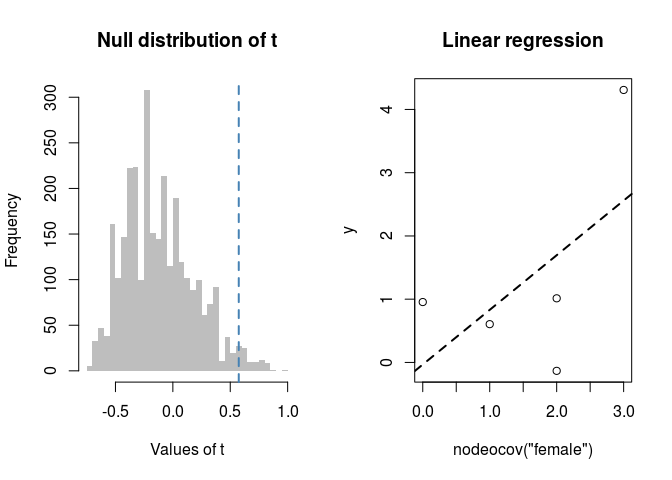
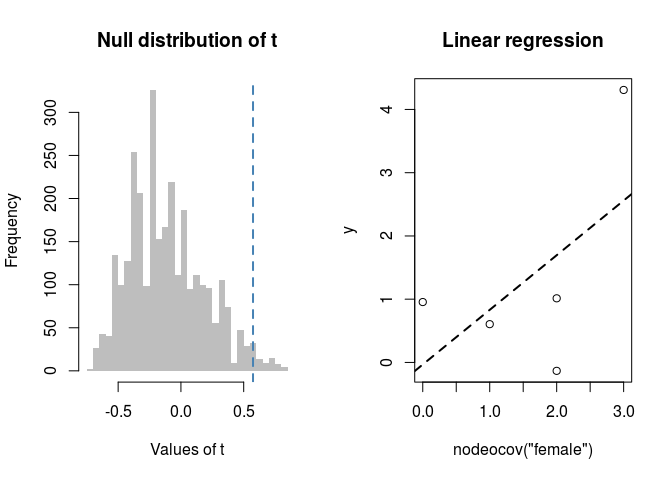
Preparing autodeploy

diff --git a/README.md b/README.md
@@ -2,6 +2,10 @@
 <!-- README.md is generated from README.Rmd. Please edit that file -->
 
 [![lifecycle](https://img.shields.io/badge/lifecycle-experimental-orange.svg)](https://www.tidyverse.org/lifecycle/#experimental)
+[![Travis build
+status](https://travis-ci.org/muriteams/gnet.svg?branch=master)](https://travis-ci.org/muriteams/gnet)
+[![Build
+status](https://ci.appveyor.com/api/projects/status/0w08vtiu0wul6blj?svg=true)](https://ci.appveyor.com/project/gvegayon/gnet)
 
 # gnet
 
@@ -43,6 +47,9 @@ nets <- rbernoulli(c(3,3,4,4,4))
 fun <- function(g, y) mean(count_stats(g, "edges") - y, na.rm = TRUE)
 
 mytest01 <- struct_test(nets ~ edges + balance, y = runif(5), R=1000, stat=fun)
+#> Warning: The observed statistics (target.statistics) are near or at
+#> theboundary of its support, i.e. the Maximum Likelihood Estimates maynot
+#> exist or be hard to be estimated. In particular, the statistics "balance".
 ```
 
 ``` r
@@ -51,7 +58,7 @@ mytest01
 #> # of obs: 5
 #> # of replicates: 1000 (1000 used)
 #> Alternative: two.sided
-#> S[1] s(obs): 4.6689 s(sim): 4.6931 p-val: 0.9080
+#> S[1] s(obs): 4.7347 s(sim): 4.7169 p-val: 0.8660
 ```
 
 ``` r
@@ -88,7 +95,7 @@ mytest02
 #> # of obs: 5
 #> # of replicates: 3000 (3000 used)
 #> Alternative: two.sided
-#> S[1] s(obs): 0.5742 s(sim): -0.1181 p-val: 0.0460
+#> S[1] s(obs): 0.5742 s(sim): -0.1120 p-val: 0.0347
 ```
 
 What would have we got if we use a linear regression only?
